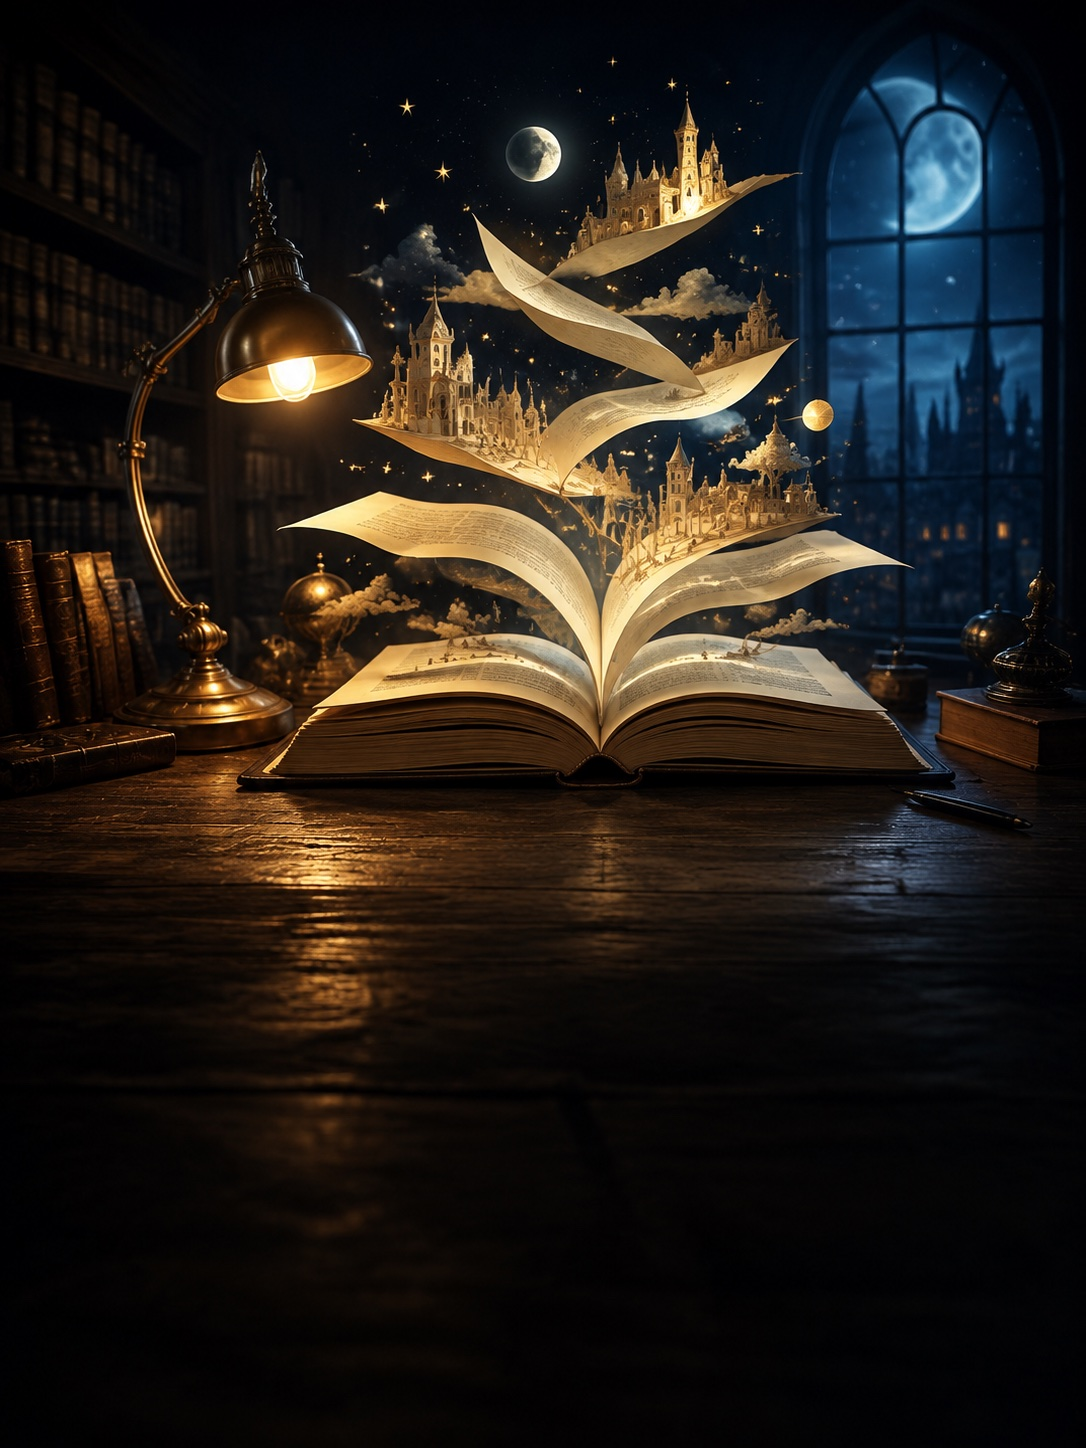
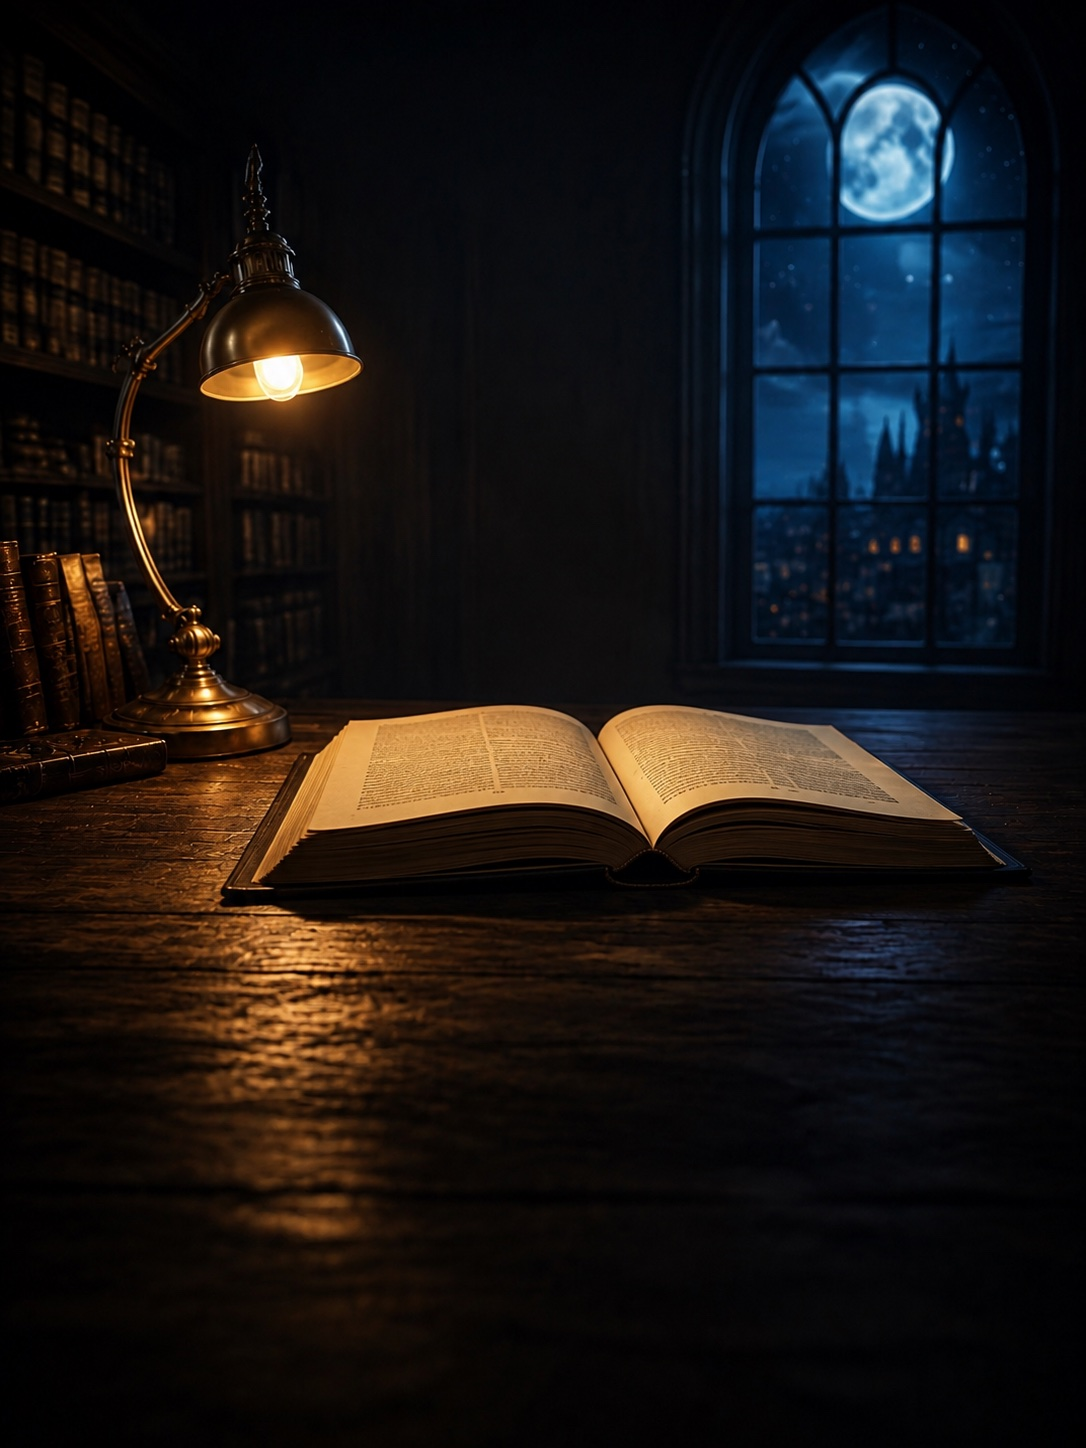
Simplify Story Editor card into a quiet moonlit writing scene

diff --git a/public/index.html b/public/index.html
@@ -74,7 +74,7 @@
           <div class="tool-card-copy"><span class="tool-card-kicker">A LITTLE EVERYDAY INTELLIGENCE</span><h3>Big ideas.<br>Good company.</h3><p>An AI assistant for your business. Talk, type, or bring an image.</p><span class="tool-card-cta">Meet AI Helper <svg aria-hidden="true"><use href="#arrow"/></svg></span></div>
         </a>
         <a class="tool-gallery-card tool-gallery-story" href="/story-editor/" target="_blank" rel="noopener noreferrer" aria-labelledby="card-story-title">
-          <img class="tool-card-art" src="/home/cards/story-editor-20260905.jpg" width="1086" height="1448" alt="A manuscript unfolds into a world of paper castles in a moonlit writing room" loading="lazy" decoding="async">
+          <img class="tool-card-art" src="/home/cards/story-editor-20260905.jpg?v=quiet-library-20260905" width="1086" height="1448" alt="An open book rests beneath a warm brass lamp in a quiet moonlit library" loading="lazy" decoding="async">
           <div class="tool-card-top"><span id="card-story-title">STORY EDITOR</span><span class="tool-card-open" aria-hidden="true"><svg><use href="#external"/></svg></span></div>
           <div class="tool-card-copy"><span class="tool-card-kicker">A STORY ONLY YOU CAN TELL</span><h3>A world in<br>your words.</h3><p>Give your manuscript a place to grow, one passage at a time.</p><span class="tool-card-cta">Open Story Editor <svg aria-hidden="true"><use href="#arrow"/></svg></span></div>
         </a>
